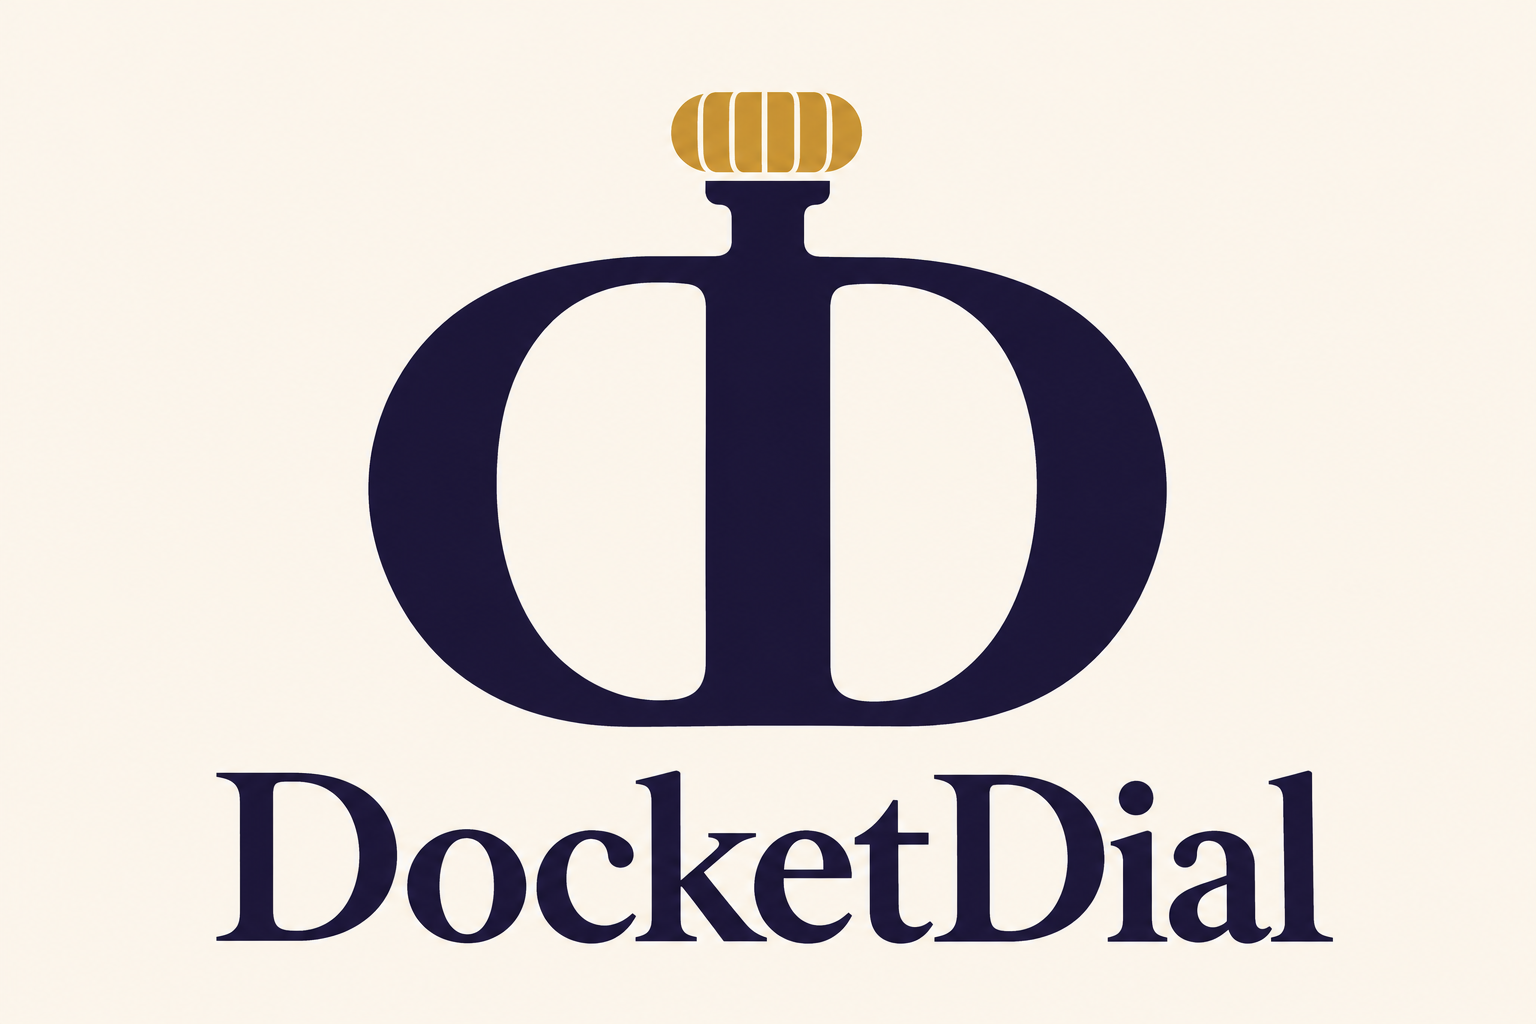
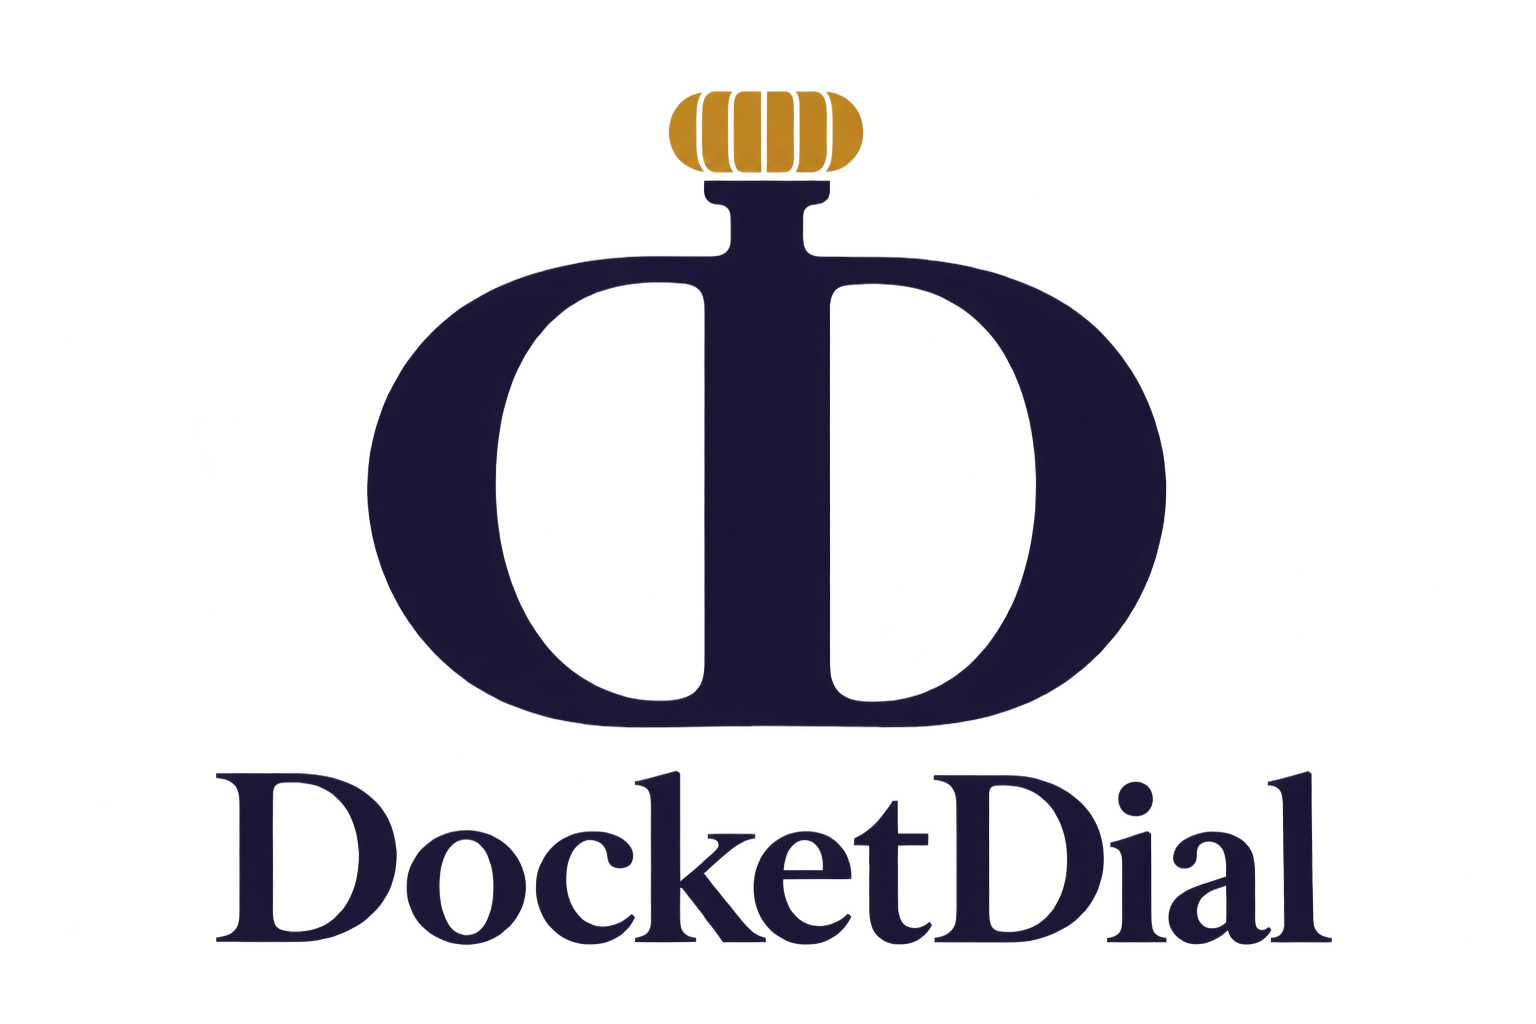
Update the DocketDial quick start
Remove the logo backdrop and document how to invoke DocketDial

diff --git a/README.md b/README.md
@@ -1,5 +1,8 @@
 <p align="center">
-  <img src="skills/docketdial/assets/docketdial.png" width="400" alt="DocketDial, a navy double-D pocket watch with a gold crown">
+  <picture>
+    <source media="(prefers-color-scheme: dark)" srcset="skills/docketdial/assets/docketdial-dark.png">
+    <img src="skills/docketdial/assets/docketdial.png" width="400" alt="DocketDial, a double-D pocket watch with a gold crown">
+  </picture>
 </p>
 
 # DocketDial
@@ -13,8 +16,16 @@ Ask for a day or a billing period. DocketDial groups the work it can substantiat
 | Where you work | How to add DocketDial |
 | --- | --- |
 | Microsoft 365 Copilot Cowork | Open [DocketDial.md](copilot/DocketDial.md) and choose **Download raw file** on GitHub. In Cowork, open **Customize → Skills**, then the arrow beside **Add → Upload skill**. Select the downloaded file. [Microsoft’s guide](https://learn.microsoft.com/en-us/copilot/cowork/use-cowork#upload-a-skill) |
-| Codex | Copy the [docketdial folder](skills/docketdial) into `~/.agents/skills/`. Start a prompt with `$docketdial`. [Codex skills guide](https://developers.openai.com/codex/skills/) |
+| Codex | Copy the [docketdial folder](skills/docketdial) into `~/.agents/skills/`. [Codex skills guide](https://developers.openai.com/codex/skills/) |
 | Claude Cowork | Download the repository, unzip it, then zip just the [docketdial folder](skills/docketdial) with `docketdial/SKILL.md` inside the archive. Upload that ZIP in **Customize → Skills** and enable it. [Claude’s guide](https://support.claude.com/en/articles/12512198-how-to-create-custom-skills) |
+
+## Run DocketDial
+
+| Where you work | How to start a docket |
+| --- | --- |
+| Claude Cowork | Type `/docketdial Draft my dockets for yesterday.` [Claude’s skill guide](https://academy.claude.com/tutorials/customize-claude-cowork) |
+| Microsoft 365 Copilot Cowork | In a new task, type `/` to open the picker. If the **Skills** tab is available, select **Skills → docketdial**, then enter `Draft my dockets for yesterday.` You can also type `Use DocketDial to draft my dockets for yesterday.` Check **Skills** in the session side panel to see what loaded. [Cowork guide](https://learn.microsoft.com/en-us/copilot/cowork/use-cowork) · [Picker screenshot](https://uds.systems/media/3tsofibk/screenshot_4.webp) |
+| Codex | Type `$docketdial Draft my dockets for yesterday.` |
 
 In your firm’s approved workspace, give the assistant access to the relevant work records or attach exports. For phone activity, attach call-log or message screenshots that show the event date and time. Include a matter list with client, matter ID, matter name, contact, full phone number, and email where available. Add existing time entries to check for duplicates. For fee subtotals, include the matter’s billing rules, rates, and currency.
 
